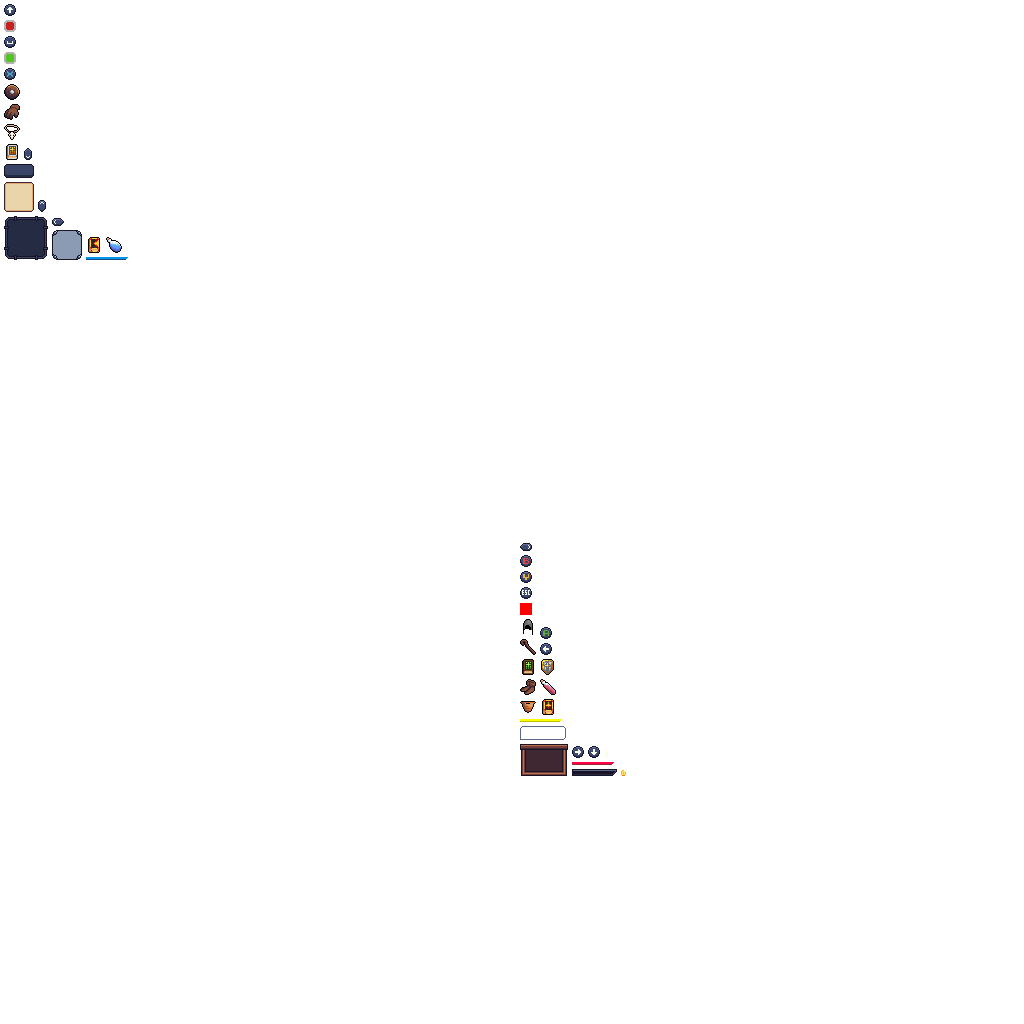
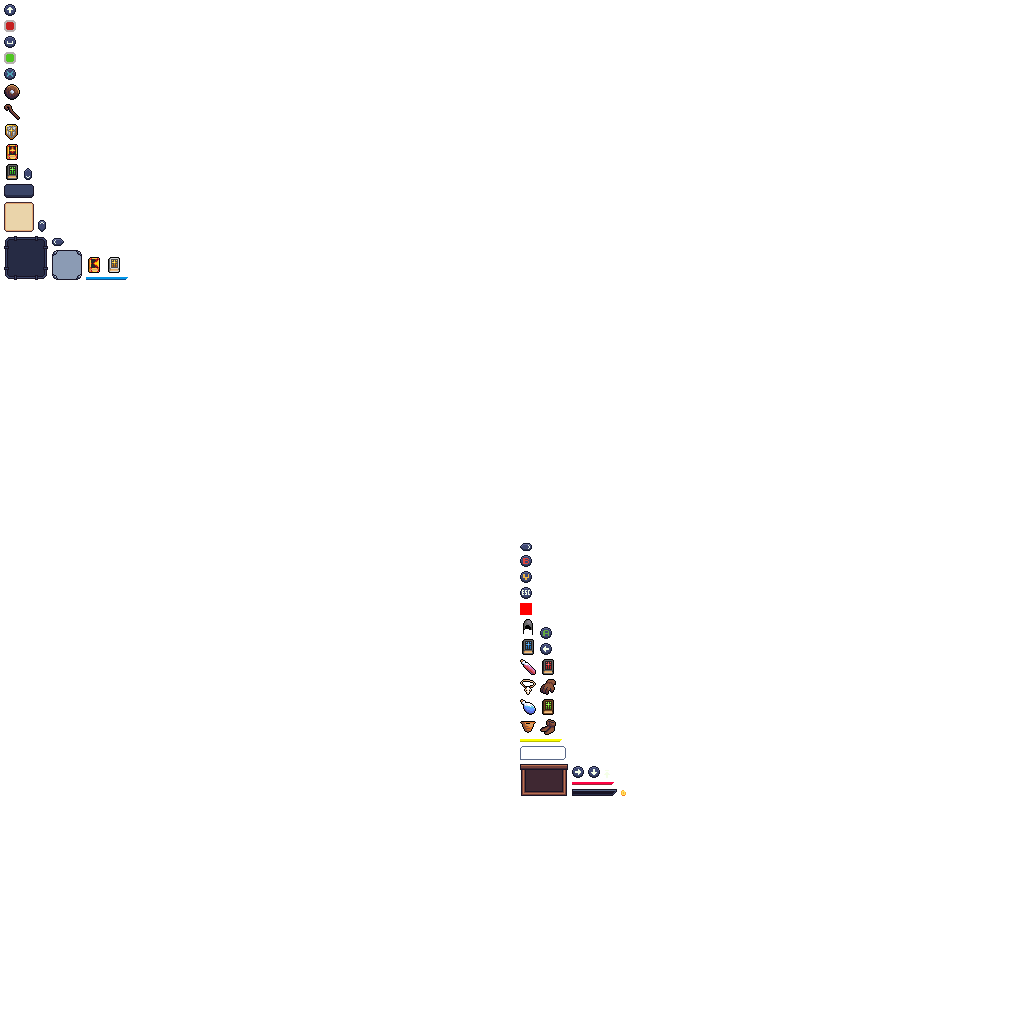
add stat tomes and add scrolling to inventory view

Changed region(s): [[0.5, 0.625, 0.625, 0.7812], [0.0, 0.0938, 0.125, 0.2812]]

diff --git a/core/src/main/kotlin/com/github/quillraven/quillycrawler/ashley/itemEntities.kt b/core/src/main/kotlin/com/github/quillraven/quillycrawler/ashley/itemEntities.kt
@@ -24,7 +24,7 @@ fun Engine.createItemEntity(type: ItemType, numItems: Int = 1): Entity {
         with<StatsComponent> {
           stats[StatsType.PHYSICAL_ARMOR] = 2f
         }
-        itemCmp.cost = 25
+        itemCmp.baseCost = 25
       }
       ItemType.CURSED_NECKLACE -> {
         with<StatsComponent> {
@@ -34,72 +34,87 @@ fun Engine.createItemEntity(type: ItemType, numItems: Int = 1): Entity {
           stats[StatsType.PHYSICAL_DAMAGE] = -4f
           stats[StatsType.PHYSICAL_ARMOR] = -3f
         }
-        itemCmp.cost = 250
+        itemCmp.baseCost = 250
       }
       ItemType.HAT -> {
         with<StatsComponent> {
           stats[StatsType.PHYSICAL_ARMOR] = 1f
           stats[StatsType.INTELLIGENCE] = 1f
         }
-        itemCmp.cost = 10
+        itemCmp.baseCost = 10
       }
       ItemType.HEALTH_POTION -> {
         with<ConsumableComponent>()
         with<StatsComponent> {
           stats[StatsType.LIFE] = 50f
         }
-        itemCmp.cost = 5
+        itemCmp.baseCost = 5
       }
       ItemType.MANA_POTION -> {
         with<ConsumableComponent>()
         with<StatsComponent> {
           stats[StatsType.MANA] = 10f
         }
-        itemCmp.cost = 10
+        itemCmp.baseCost = 10
       }
       ItemType.LEATHER_BOOTS -> {
         with<StatsComponent> {
           stats[StatsType.PHYSICAL_ARMOR] = 1f
           stats[StatsType.AGILITY] = 1f
         }
-        itemCmp.cost = 30
+        itemCmp.baseCost = 30
       }
       ItemType.LEATHER_GLOVES -> {
         with<StatsComponent> {
           stats[StatsType.PHYSICAL_ARMOR] = 1f
           stats[StatsType.STRENGTH] = 1f
         }
-        itemCmp.cost = 30
+        itemCmp.baseCost = 30
       }
       ItemType.ROBE -> {
         with<StatsComponent> {
           stats[StatsType.PHYSICAL_ARMOR] = 2f
           stats[StatsType.INTELLIGENCE] = 3f
         }
-        itemCmp.cost = 35
+        itemCmp.baseCost = 35
       }
       ItemType.ROD -> {
         with<StatsComponent> {
           stats[StatsType.MAGIC_DAMAGE] = 3f
           stats[StatsType.PHYSICAL_DAMAGE] = 1f
         }
-        itemCmp.cost = 40
+        itemCmp.baseCost = 40
       }
       ItemType.TOME_EXPLOSION -> {
         with<ConsumableComponent> { abilitiesToAdd.add(CommandExplosion::class) }
-        itemCmp.cost = 400
+        itemCmp.baseCost = 400
       }
       ItemType.TOME_FIREBOLT -> {
         with<ConsumableComponent> { abilitiesToAdd.add(CommandFirebolt::class) }
-        itemCmp.cost = 100
+        itemCmp.baseCost = 100
       }
       ItemType.TOME_HEAL -> {
         with<ConsumableComponent> { abilitiesToAdd.add(CommandHeal::class) }
-        itemCmp.cost = 200
+        itemCmp.baseCost = 200
       }
       ItemType.TOME_PROTECT -> {
         with<ConsumableComponent> { abilitiesToAdd.add(CommandProtect::class) }
-        itemCmp.cost = 150
+        itemCmp.baseCost = 150
+      }
+      ItemType.TOME_STRENGTH -> {
+        with<ConsumableComponent>()
+        with<StatsComponent> { stats[StatsType.STRENGTH] = 1f }
+        itemCmp.baseCost = 100
+      }
+      ItemType.TOME_AGILITY -> {
+        with<ConsumableComponent>()
+        with<StatsComponent> { stats[StatsType.AGILITY] = 1f }
+        itemCmp.baseCost = 100
+      }
+      ItemType.TOME_INTELLIGENCE -> {
+        with<ConsumableComponent>()
+        with<StatsComponent> { stats[StatsType.INTELLIGENCE] = 1f }
+        itemCmp.baseCost = 100
       }
       ItemType.UNDEFINED -> {
       }

diff --git a/core/src/main/kotlin/com/github/quillraven/quillycrawler/ui/model/ShopViewModel.kt b/core/src/main/kotlin/com/github/quillraven/quillycrawler/ui/model/ShopViewModel.kt
@@ -7,6 +7,7 @@ import com.badlogic.gdx.utils.StringBuilder
 import com.github.quillraven.commons.ashley.component.removeFromEngine
 import com.github.quillraven.commons.audio.AudioService
 import com.github.quillraven.quillycrawler.ashley.component.*
+import com.github.quillraven.quillycrawler.ashley.component.ItemType.*
 import com.github.quillraven.quillycrawler.ashley.createItemEntity
 import com.github.quillraven.quillycrawler.assets.SoundAssets
 import com.github.quillraven.quillycrawler.assets.play
@@ -34,7 +35,7 @@ data class ShopItemViewModel(
   val name: String,
   val description: String,
   val regionKey: String,
-  val cost: Int,
+  var cost: Int,
   val equipped: Boolean,
   var canBuy: Boolean,
 ) {
@@ -77,8 +78,6 @@ data class ShopViewModel(
   var shopEntity: Entity,
   val audioService: AudioService
 ) {
-  // TODO
-  //  attribute tomes get more expensive every time you buy them (maybe separate component that stores the amount data? or compare current stats to base stats?)
   private val listeners = GdxSet<ShopListener>()
   private val statsInfo = EnumMap<StatsType, StringBuilder>(StatsType::class.java)
   private var mode = ShopMode.SELL
@@ -109,9 +108,9 @@ data class ShopViewModel(
             itemCmp.name(bundle),
             itemCmp.description(bundle),
             itemCmp.regionKey(bundle),
-            if (mode == ShopMode.BUY) itemCmp.cost else (itemCmp.cost * SELL_RATIO).toInt(),
+            if (mode == ShopMode.BUY) itemCmp.baseCost else (itemCmp.baseCost * SELL_RATIO).toInt(),
             entity[GearComponent.MAPPER]?.gear?.containsKey(itemCmp.gearType) ?: false,
-            if (mode == ShopMode.BUY) itemCmp.cost <= gold else true,
+            if (mode == ShopMode.BUY) itemCmp.baseCost <= gold else true,
           )
         )
       }
@@ -164,18 +163,26 @@ data class ShopViewModel(
 
     // enough gold -> buy item
     val item = itemEntities[idx]
-    val selItemCmp = item.itemCmp
-    val selItemType = selItemCmp.itemType
+    val itemCmp = item.itemCmp
+    val selItemType = itemCmp.itemType
     val playerBagCmp = playerEntity.bagCmp
     if (selItemType in playerBagCmp.items) {
       playerBagCmp.items[selItemType].itemCmp.amount++
     } else {
       playerBagCmp.items[selItemType] = engine.createItemEntity(selItemType)
     }
-    playerBagCmp.gold -= item.itemCmp.cost
+    playerBagCmp.gold -= item.itemCmp.cost(playerEntity)
     engine.update(0f)
 
-    // update 'purchasable' info for UI items
+    // update 'purchasable' info for UI items and consume stat tomes to increase their cost
+    if (itemCmp.itemType == TOME_STRENGTH || itemCmp.itemType == TOME_AGILITY || itemCmp.itemType == TOME_INTELLIGENCE) {
+      engine.configureEntity(playerEntity) {
+        with<ConsumeComponent> { itemsToConsume.add(playerBagCmp.items[selItemType]) }
+      }
+      engine.update(0f)
+      uiItem.cost = itemCmp.cost(playerEntity)
+    }
+
     uiItems.forEach { it.canBuy = playerBagCmp.gold >= it.cost }
     listeners.forEach {
       it.onItemsUpdated(uiItems)
@@ -189,7 +196,7 @@ data class ShopViewModel(
     val item = itemEntities[idx]
     val itemCmp = item.itemCmp
     val playerBag = playerEntity.bagCmp
-    playerBag.gold += (itemCmp.cost * SELL_RATIO).toInt()
+    playerBag.gold += (itemCmp.baseCost * SELL_RATIO).toInt()
     listeners.forEach { it.onGoldUpdated(playerBag.gold) }
 
     if (itemCmp.amount > 1) {

diff --git a/core/src/main/kotlin/com/github/quillraven/quillycrawler/ui/view/InventoryView.kt b/core/src/main/kotlin/com/github/quillraven/quillycrawler/ui/view/InventoryView.kt
@@ -4,6 +4,8 @@ import com.badlogic.gdx.Input
 import com.badlogic.gdx.controllers.Controller
 import com.badlogic.gdx.scenes.scene2d.ui.Image
 import com.badlogic.gdx.scenes.scene2d.ui.Label
+import com.badlogic.gdx.scenes.scene2d.ui.ScrollPane
+import com.badlogic.gdx.scenes.scene2d.ui.Table
 import com.badlogic.gdx.utils.Align
 import com.badlogic.gdx.utils.I18NBundle
 import com.badlogic.gdx.utils.Scaling
@@ -11,10 +13,7 @@ import com.badlogic.gdx.utils.StringBuilder
 import com.github.quillraven.commons.input.XboxInputProcessor
 import com.github.quillraven.quillycrawler.ashley.component.GearType
 import com.github.quillraven.quillycrawler.ashley.component.StatsType
-import com.github.quillraven.quillycrawler.ui.SkinImages
-import com.github.quillraven.quillycrawler.ui.SkinLabelStyle
-import com.github.quillraven.quillycrawler.ui.SkinListStyle
-import com.github.quillraven.quillycrawler.ui.SkinTextButtonStyle
+import com.github.quillraven.quillycrawler.ui.*
 import com.github.quillraven.quillycrawler.ui.model.InventoryListener
 import com.github.quillraven.quillycrawler.ui.model.InventoryViewModel
 import ktx.collections.GdxArray
@@ -26,6 +25,7 @@ class InventoryView(private val viewModel: InventoryViewModel, private val bundl
   InventoryListener {
   // item details
   private val goldLabel: Label
+  private val itemsScrollPane: ScrollPane
   private val bagItems: GdxList<String>
   private val itemImage: Image
   private val itemDescriptionLabel: Label
@@ -84,8 +84,17 @@ class InventoryView(private val viewModel: InventoryViewModel, private val bundl
       }
 
       // items
-      this@InventoryView.bagItems =
-        listWidget<String>(SkinListStyle.DEFAULT.name).cell(padTop = 3f, padLeft = 2f, padRight = 2f)
+      val itemTable = Table(skin).apply {
+        defaults().expand().fill().pad(3f, 2f, 0f, 2f)
+        this@InventoryView.bagItems = GdxList<String>(skin, SkinListStyle.DEFAULT.name)
+        this.add(this@InventoryView.bagItems)
+      }
+      this@InventoryView.itemsScrollPane = scrollPane(SkinScrollPaneStyle.NO_BGD.name) { spCell ->
+        setScrollingDisabled(true, false)
+        setScrollbarsVisible(false)
+        actor = itemTable
+        spCell.expand().padBottom(3f)
+      }
 
       cell.expand()
         .padBottom(3f)
@@ -210,6 +219,12 @@ class InventoryView(private val viewModel: InventoryViewModel, private val bundl
     itemImage.isVisible = regionKey != SkinImages.UNDEFINED.regionKey
 
     itemDescriptionLabel.setText(description)
+
+    if (bagItems.items.size > 0) {
+      itemsScrollPane.scrollPercentY = bagItems.selectedIndex.toFloat() / bagItems.items.size
+    } else {
+      itemsScrollPane.scrollPercentY = 0f
+    }
   }
 
   override fun onStatsUpdated(statsInfo: EnumMap<StatsType, StringBuilder>) {

diff --git a/core/src/main/kotlin/com/github/quillraven/quillycrawler/ashley/component/ItemComponent.kt b/core/src/main/kotlin/com/github/quillraven/quillycrawler/ashley/component/ItemComponent.kt
@@ -22,7 +22,10 @@ enum class ItemType(val gearType: GearType = GearType.UNDEFINED) {
   TOME_PROTECT,
   TOME_FIREBOLT,
   TOME_EXPLOSION,
-  TOME_HEAL;
+  TOME_HEAL,
+  TOME_STRENGTH,
+  TOME_AGILITY,
+  TOME_INTELLIGENCE;
 
   companion object {
     private val GEAR_ITEM_TYPES = values().filter { it.gearType != GearType.UNDEFINED }
@@ -35,7 +38,28 @@ class ItemComponent : Component, Pool.Poolable {
   var itemType = ItemType.UNDEFINED
   var gearType = GearType.UNDEFINED
   var amount = 1
-  var cost = 0
+  var baseCost: Int = 0
+
+  fun cost(entity: Entity): Int {
+    return when (itemType) {
+      ItemType.TOME_STRENGTH -> {
+        val currentStr = entity[StatsComponent.MAPPER]?.get(StatsType.STRENGTH) ?: 0f
+        val strDiff = if (currentStr > StatsComponent.BASE_STRENGTH) currentStr - StatsComponent.BASE_STRENGTH else 0f
+        baseCost + 100 * strDiff.toInt()
+      }
+      ItemType.TOME_AGILITY -> {
+        val currentAgi = entity[StatsComponent.MAPPER]?.get(StatsType.AGILITY) ?: 0f
+        val agiDiff = if (currentAgi > StatsComponent.BASE_AGILITY) currentAgi - StatsComponent.BASE_AGILITY else 0f
+        baseCost + 100 * agiDiff.toInt()
+      }
+      ItemType.TOME_INTELLIGENCE -> {
+        val crnInt = entity[StatsComponent.MAPPER]?.get(StatsType.INTELLIGENCE) ?: 0f
+        val intDiff = if (crnInt > StatsComponent.BASE_INTELLIGENCE) crnInt - StatsComponent.BASE_INTELLIGENCE else 0f
+        baseCost + 100 * intDiff.toInt()
+      }
+      else -> baseCost
+    }
+  }
 
   fun name(bundle: I18NBundle): String = bundle["Item.${this.itemType.name}.name"]
 
@@ -54,7 +78,7 @@ class ItemComponent : Component, Pool.Poolable {
     gearType = GearType.UNDEFINED
     itemType = ItemType.UNDEFINED
     amount = 1
-    cost = 0
+    baseCost = 0
   }
 
   companion object {

diff --git a/core/src/main/kotlin/com/github/quillraven/quillycrawler/ashley/system/DamageEmitterSystem.kt b/core/src/main/kotlin/com/github/quillraven/quillycrawler/ashley/system/DamageEmitterSystem.kt
@@ -23,6 +23,15 @@ class DamageEmitterSystem(private val gameEventDispatcher: GameEventDispatcher) 
 
     if (damageEmitterCmp.damageDelay <= 0f) {
       // deal damage
+      if (damageEmitterCmp.source.isPlayer) {
+        // player damage gets increased by strength and intelligence
+        val statsCmp = damageEmitterCmp.source.statsCmp
+        val physInc = statsCmp.totalStatValue(damageEmitterCmp.source, StatsType.STRENGTH) * 0.01f
+        val magInc = statsCmp.totalStatValue(damageEmitterCmp.source, StatsType.INTELLIGENCE) * 0.01f
+        damageEmitterCmp.physicalDamage *= (1f + physInc)
+        damageEmitterCmp.magicDamage *= (1f + magInc)
+      }
+
       // dispatch event so that the target could react e.g. via a buff that reduces the incoming damage by
       // modifying the emitter data
       val physicalDamageBefore = damageEmitterCmp.physicalDamage

diff --git a/core/src/main/kotlin/com/github/quillraven/quillycrawler/screen/ShopScreen.kt b/core/src/main/kotlin/com/github/quillraven/quillycrawler/screen/ShopScreen.kt
@@ -2,8 +2,6 @@ package com.github.quillraven.quillycrawler.screen
 
 import com.badlogic.ashley.core.Engine
 import com.badlogic.ashley.core.Entity
-import com.badlogic.gdx.Gdx
-import com.badlogic.gdx.Input
 import com.github.quillraven.commons.game.AbstractScreen
 import com.github.quillraven.quillycrawler.QuillyCrawler
 import com.github.quillraven.quillycrawler.ashley.component.ItemType
@@ -44,15 +42,5 @@ class ShopScreen(game: QuillyCrawler, private val engine: Engine, playerEntity: 
   override fun hide() {
     super.hide()
     engine.getSystem<PlayerControlSystem>().setProcessing(true)
-  }
-
-  override fun render(delta: Float) {
-    //TODO remove debug
-    if (Gdx.input.isKeyJustPressed(Input.Keys.R)) {
-      stage.clear()
-      stage.addActor(ShopView(viewModel))
-    }
-
-    super.render(delta)
   }
 }

diff --git a/core/src/main/kotlin/com/github/quillraven/quillycrawler/ashley/entityConfigurations.kt b/core/src/main/kotlin/com/github/quillraven/quillycrawler/ashley/entityConfigurations.kt
@@ -201,9 +201,9 @@ fun Engine.createPlayerEntity(world: World, x: Float, y: Float): Entity {
       stats[StatsType.MAX_LIFE] = 30f
       stats[StatsType.MANA] = 10f
       stats[StatsType.MAX_MANA] = 10f
-      stats[StatsType.STRENGTH] = 5f
-      stats[StatsType.AGILITY] = 5f
-      stats[StatsType.INTELLIGENCE] = 5f
+      stats[StatsType.STRENGTH] = StatsComponent.BASE_STRENGTH
+      stats[StatsType.AGILITY] = StatsComponent.BASE_AGILITY
+      stats[StatsType.INTELLIGENCE] = StatsComponent.BASE_INTELLIGENCE
       stats[StatsType.PHYSICAL_DAMAGE] = 7f
       stats[StatsType.MAGIC_DAMAGE] = 4f
       stats[StatsType.PHYSICAL_ARMOR] = 3f

diff --git a/core/src/main/kotlin/com/github/quillraven/quillycrawler/ashley/component/StatsComponent.kt b/core/src/main/kotlin/com/github/quillraven/quillycrawler/ashley/component/StatsComponent.kt
@@ -55,6 +55,9 @@ class StatsComponent : Component, Pool.Poolable {
 
   companion object {
     val MAPPER = mapperFor<StatsComponent>()
+    const val BASE_STRENGTH = 5f
+    const val BASE_AGILITY = 5f
+    const val BASE_INTELLIGENCE = 5f
   }
 }
 
